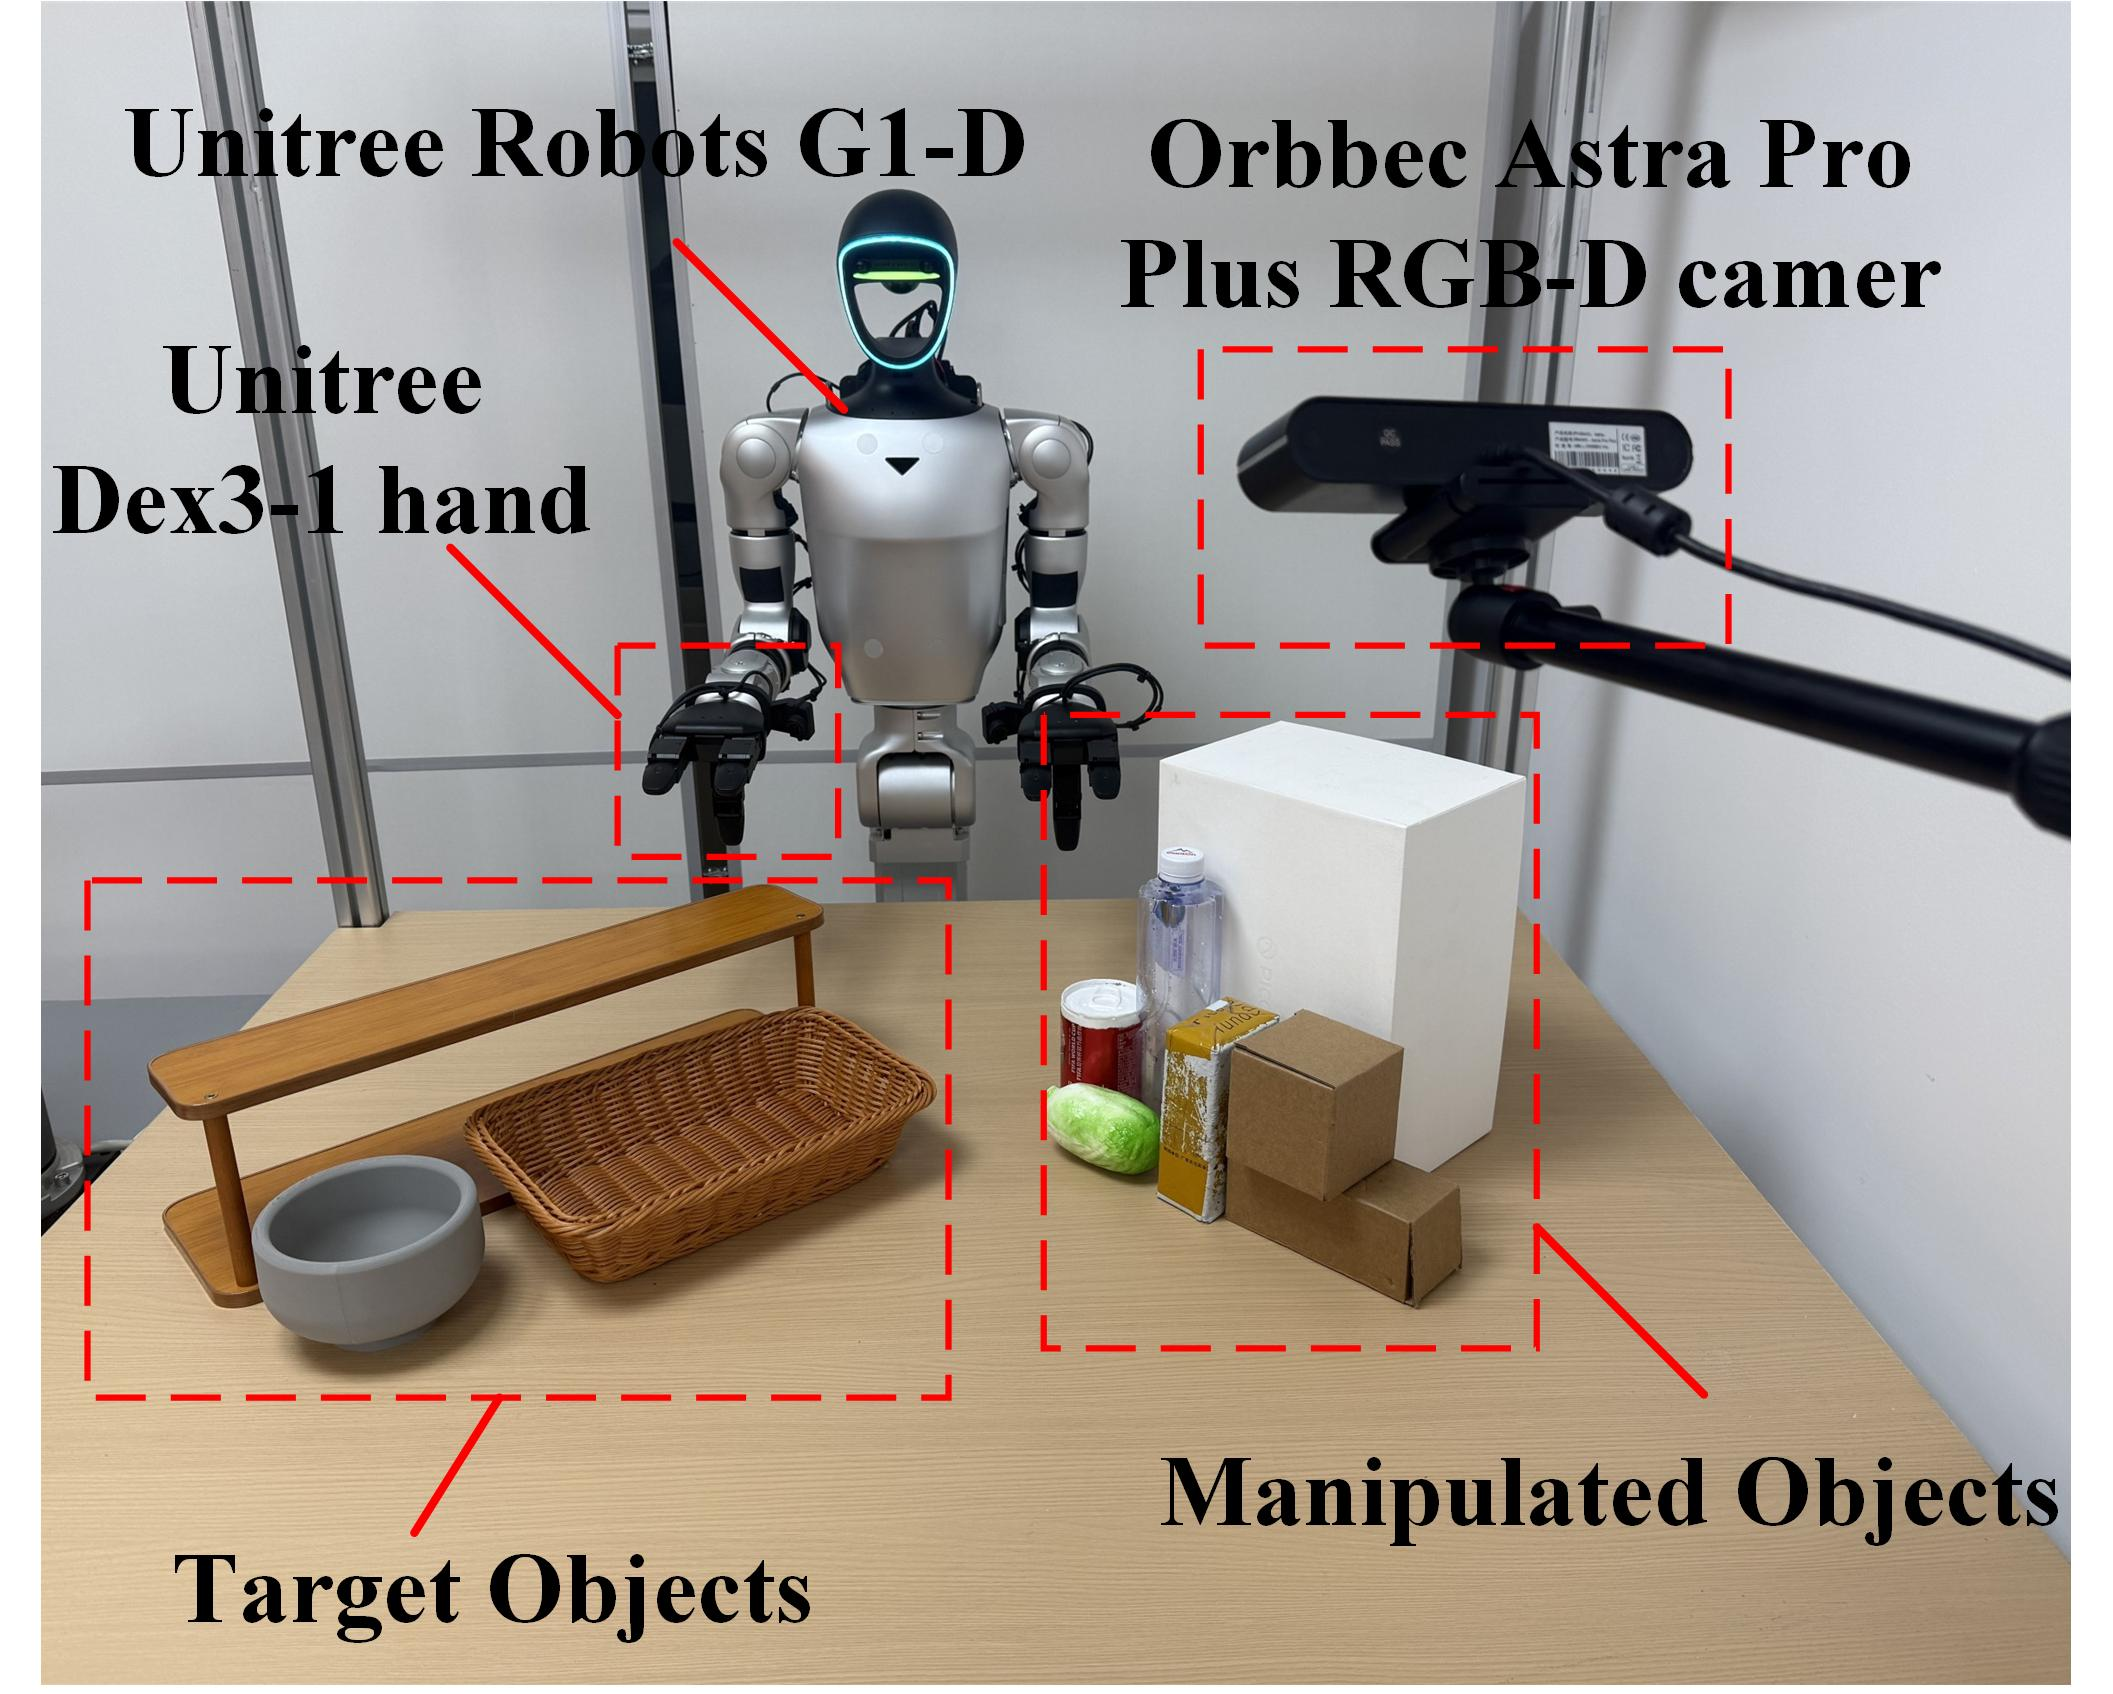
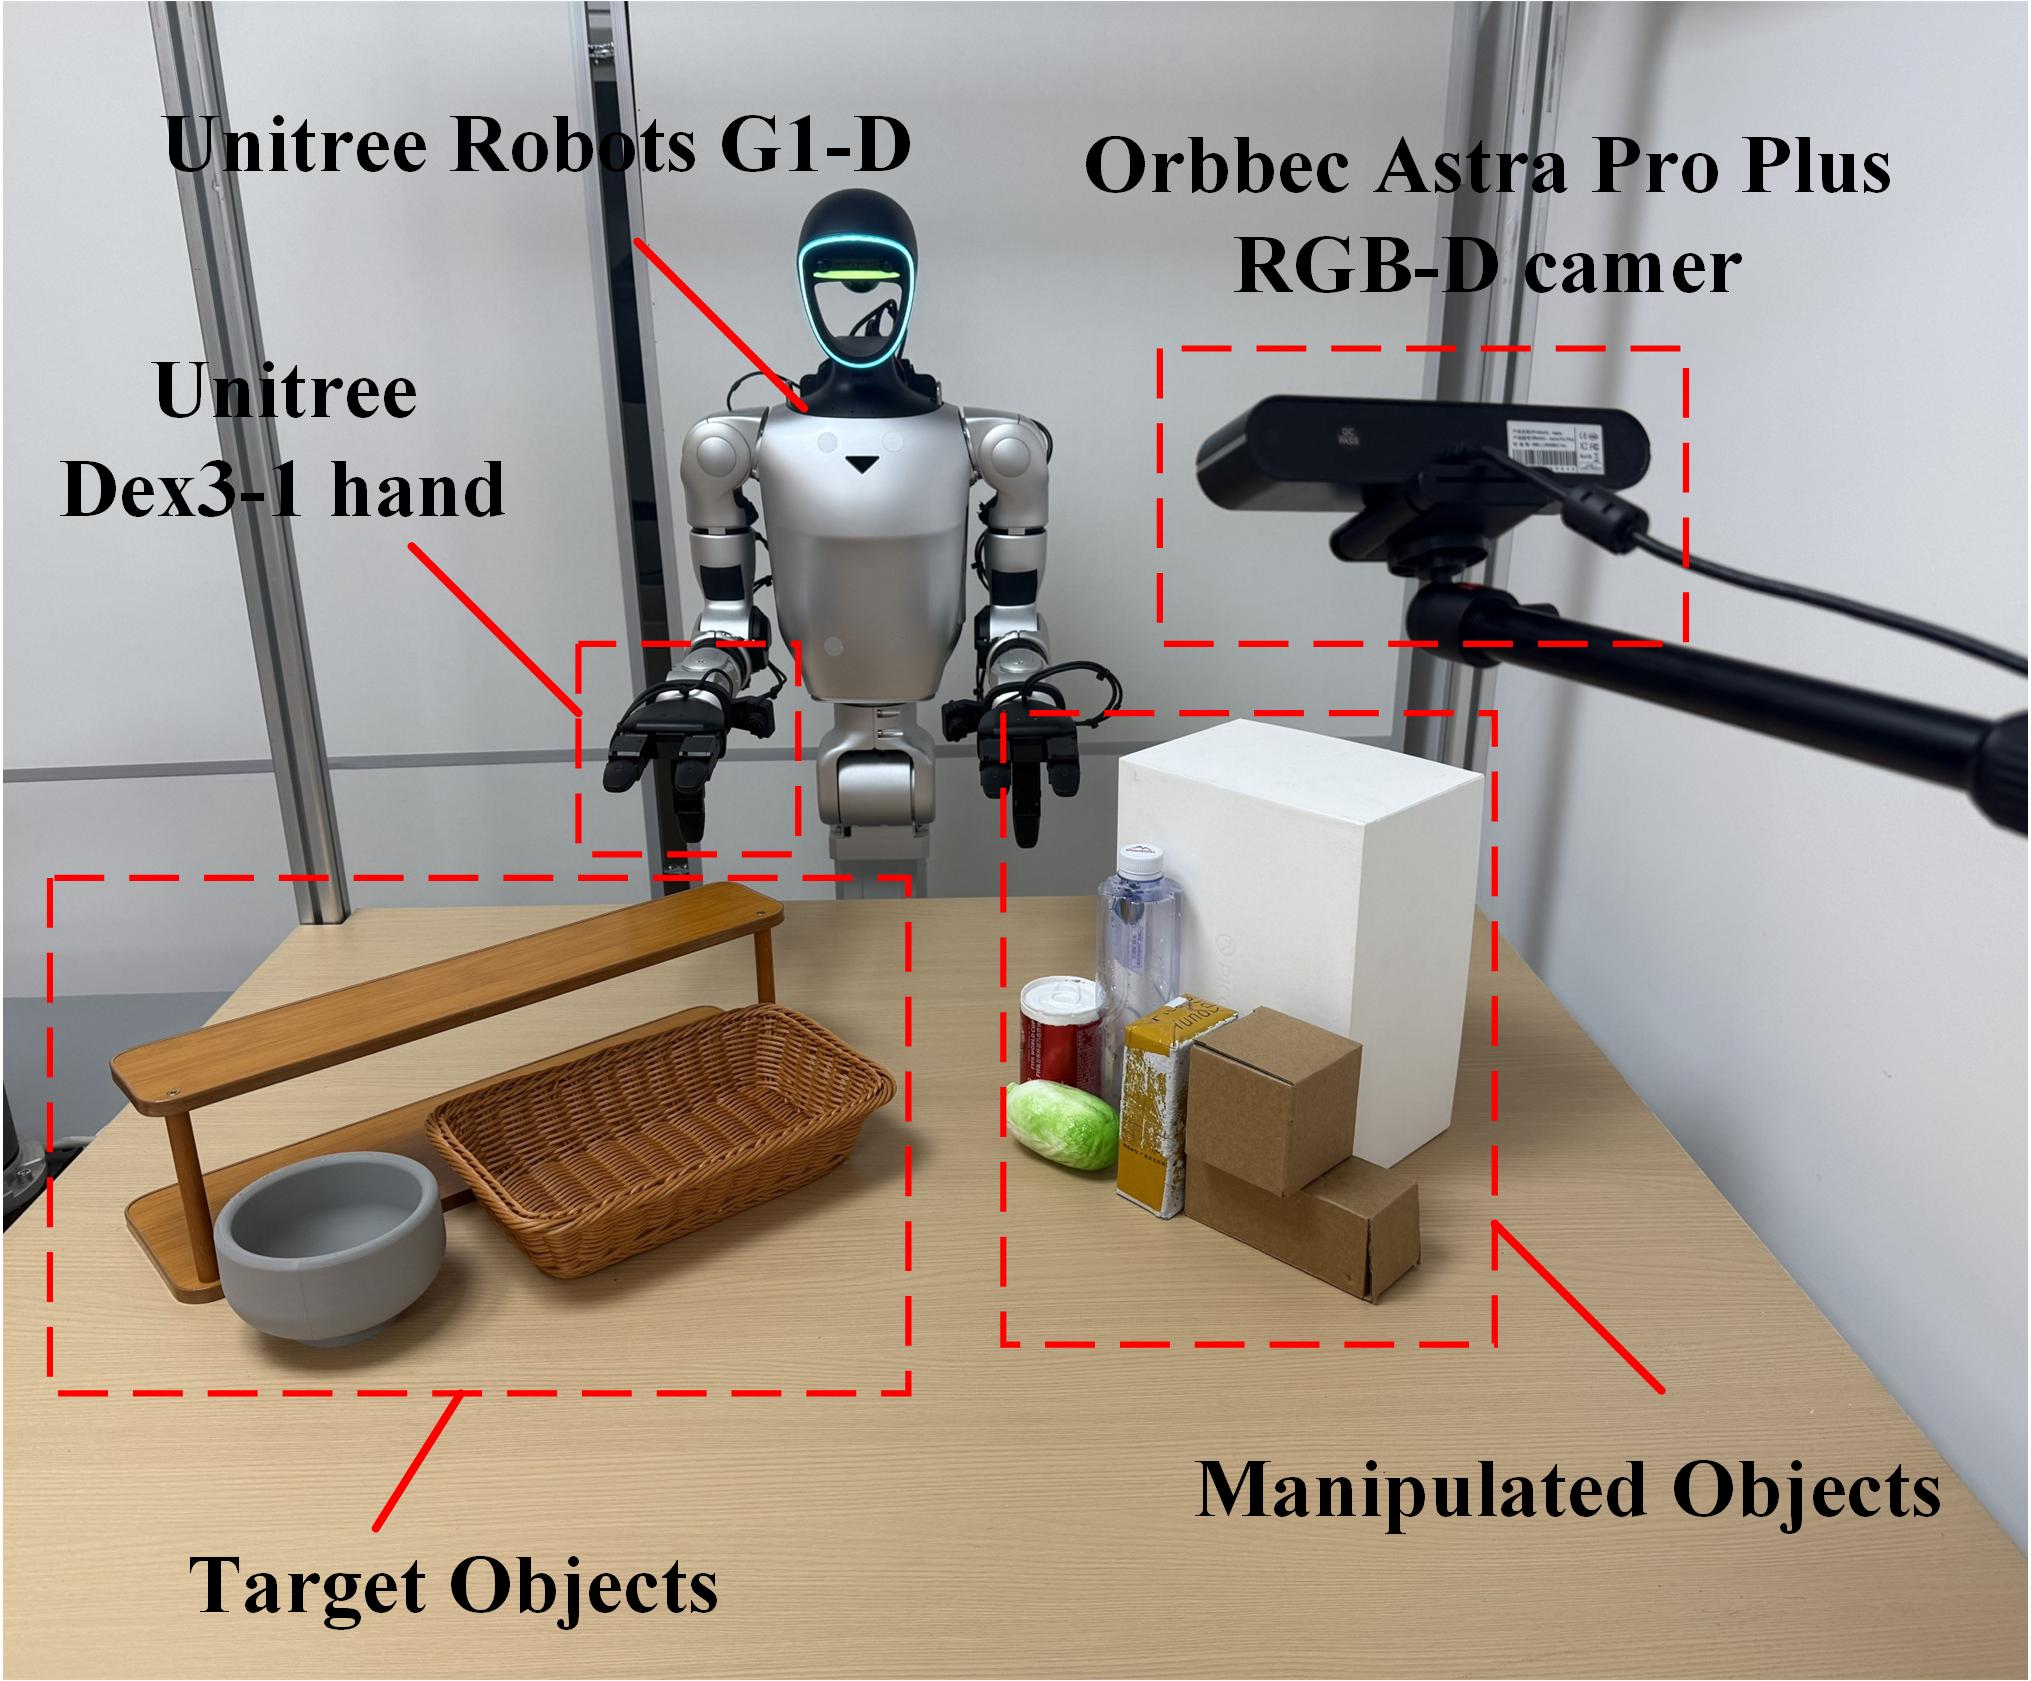
Sync homepage abstract and figures with the latest Overleaf paper

diff --git a/index.html b/index.html
@@ -21,7 +21,6 @@
     .dyna { color: #b48600; }
     .hom { color: var(--blue); }
     .subtitle { display: block; max-width: 900px; margin: 22px auto 0; font-size: clamp(25px, 4vw, 36px); font-weight: 500; letter-spacing: -.025em; line-height: 1.35; text-wrap: balance; }
-    .authors { margin: 23px 0 0; color: var(--muted); }
     .resources { display: flex; flex-wrap: wrap; justify-content: center; gap: 12px; margin-top: 24px; }
     .resource { display: inline-block; padding: 7px 20px; border: 1px solid #cbd4e1; border-radius: 24px; text-decoration: none; font-size: 16px; line-height: 1.5; }
     a.resource { background: #fff; }
@@ -56,29 +55,42 @@
     <h1><em><span class="dyna">Dyna</span><span class="hom">HOM</span></em>
       <span class="subtitle">An Object-Centric Reinforcement Learning Framework for Dynamic Object Manipulation</span>
     </h1>
-    <p class="authors">Anonymous Authors</p>
     <nav class="resources" aria-label="Project resources">
       <a class="resource" href="#overview">Overview</a>
+      <a class="resource" href="#real-world">Real World</a>
       <a class="resource" href="#demonstrations">Demonstrations</a>
     </nav>
   </header>
   <main id="main">
     <section class="section abstract" id="abstract" aria-labelledby="abstract-title">
       <h2 id="abstract-title">Abstract</h2>
-      <p>Dynamic object manipulation requires a robot to intercept a moving target, establish a stable grasp, and control the object's subsequent motion toward a task goal. Object shape and hand mechanism affect both grasp acquisition and the ability to retain the object during transport and reorientation. We present DynaHOM, an object-centric reinforcement learning framework for dynamic object manipulation that connects grasping, planning, and execution through object states and goals. A language-conditioned perception front end identifies the target and continuously estimates its 6D pose. An RL policy then performs dynamic grasping using object-centric feedback. Once the object is grasped, a vision-language model generates an object-level target trajectory conditioned on the task instruction. The RL policy subsequently tracks this trajectory through closed-loop control. We instantiate the framework on Unitree G1-D with a three-finger hand and on a Franka Emika Panda arm with a parallel-jaw gripper. Policies are trained separately with reward terms and control interfaces adapted to each embodiment. We validate the framework in real-world scenarios spanning dynamic object manipulation in everyday settings and conveyor-belt parcel sorting for industrial logistics.</p>
+      <p>Dynamic object manipulation requires coordinated interception, grasp retention, and control of subsequent object motion. However, variations in object geometry and hand mechanisms complicate both grasp acquisition and the transport and reorientation of the grasped object. We present DynaHOM, an object-centric reinforcement learning (RL) framework for dynamic object manipulation. Object geometry, motion, and goals provide a common interface for grasping, planning, and execution. A language-conditioned perception front end identifies the target and continuously estimates its 6D pose, providing object-state feedback for RL-based dynamic grasping. After grasp acquisition, a vision-language model (VLM) generates object-space waypoints from the task instruction, and the RL policy tracks these waypoints through closed-loop control. We instantiate DynaHOM on Unitree G1-D with three-fingered hands and on a Franka Emika Panda arm with a parallel-jaw gripper, training separate policies with rewards and control interfaces adapted to each embodiment. We evaluate dynamic grasping and subsequent manipulation in simulation and real-world tasks, including everyday object handling and conveyor-belt parcel placement.</p>
     </section>
     <section class="section" id="overview" aria-labelledby="overview-title">
-      <h2 id="overview-title">Dynamic Grasping and Manipulation</h2>
+      <h2 id="overview-title">Framework Overview</h2>
       <figure>
-        <img src="materials/real_robot_conveyor.jpg" alt="Sequences showing a humanoid robot grasping and placing moving parcels on a conveyor, using a single hand or both hands." width="2048" height="819" decoding="async">
-        <figcaption>From intercepting moving objects to task-oriented placement: real-world conveyor manipulation with a humanoid robot.</figcaption>
+        <a href="materials/pipeline_v1.jpg" target="_blank" rel="noopener" aria-label="Open the framework overview at full resolution">
+          <img src="materials/pipeline_v1.jpg" alt="DynaHOM overview showing object-centric reinforcement learning, perception and VLM waypoint planning, and unimanual and bimanual dynamic manipulation." width="9198" height="3469" decoding="async">
+        </a>
+        <figcaption>Overview of DynaHOM. Object-centric policy training combines robot proprioception, object geometry and motion, and goal errors. Perception and VLM waypoint planning guide RL execution, with unimanual and bimanual manipulation in the real world.</figcaption>
+      </figure>
+    </section>
+    <section class="section" id="real-world" aria-labelledby="real-world-title">
+      <h2 id="real-world-title">Real-World Evaluation</h2>
+      <figure>
+        <a href="materials/real_robot.jpg" target="_blank" rel="noopener" aria-label="Open the six real-world tasks at full resolution">
+          <img src="materials/real_robot.jpg" alt="Six real-world DynaHOM tasks: unimanual, bimanual, and adaptive conveyor parcel placement; placing a rolling can upright on a shelf; placing a cabbage in a bowl; and placing a plastic bottle in a basket." width="7844" height="6427" loading="lazy" decoding="async">
+        </a>
+        <figcaption>Real-world evaluation of DynaHOM on six tasks. (a)–(c) show industrial conveyor-belt parcel placement at constant speeds: 70 mm/s in (a, b) and 120 mm/s in (c). (d)–(f) show everyday dynamic manipulation of objects moving at varying speeds. Each row shows execution from left to right; red annotations indicate object speeds and motion directions.</figcaption>
       </figure>
     </section>
     <section class="section setup" id="setup" aria-labelledby="setup-title">
       <h2 id="setup-title">Real-World Setup</h2>
       <figure>
-        <img src="materials/set_up.jpg" alt="A Unitree G1-D robot equipped with three-finger hands, an RGB-D camera, and everyday objects for manipulation experiments." width="1756" height="1407" loading="lazy" decoding="async">
-        <figcaption>A humanoid manipulation platform with RGB-D perception and a collection of everyday target objects.</figcaption>
+        <a href="materials/set_up.jpg" target="_blank" rel="noopener" aria-label="Open the experimental setup at full resolution">
+          <img src="materials/set_up.jpg" alt="The real-world hardware setup: a Unitree G1-D with Dex3-1 hands, an Orbbec Astra Pro Plus RGB-D camera, manipulated objects, and placement target objects." width="2031" height="1681" loading="lazy" decoding="async">
+        </a>
+        <figcaption>Real-world hardware setup and object set, including manipulated objects and target objects for placement.</figcaption>
       </figure>
     </section>
     <section class="section" id="demonstrations" aria-labelledby="demonstrations-title">

diff --git a/README.md b/README.md
@@ -17,7 +17,8 @@ Open http://localhost:8000.
 - `index.html`: project title, summary, sections, and embedded styles.
 - `materials/`: project images and future demonstration videos.
 - Paper and code links are omitted until resources are available.
-- The title wording and abstract body follow the Overleaf paper (`main.tex` and `sec/0_abstract.tex`). The page heading omits the colon after DynaHOM, and its abstract omits the paper's final project-page link.
+- The title wording and abstract body follow the latest Overleaf cloud paper (`main.tex` and `sec/0_abstract.tex`). The page heading omits the colon after DynaHOM, and its abstract omits the paper's final project-page link. No author line is displayed.
+- Current paper figures: `materials/pipeline_v1.jpg` (framework overview), `materials/real_robot.jpg` (six real-world tasks), and `materials/set_up.jpg` (hardware setup). Each figure opens at full resolution when clicked.
 
 For a video, add its file under `materials/` and replace the demonstration notice with:
 
